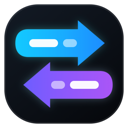
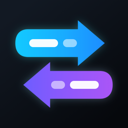
Add demo and polish project presentation

Changed region(s): [[0.0, 0.0, 1.0, 1.0]]

diff --git a/tests/background.test.js b/tests/background.test.js
@@ -119,7 +119,31 @@ test("background bootstraps an anonymous Bing session without a user key", async
   const form = new URLSearchParams(background.fetchCalls[1].options.body);
   assert.equal(form.get("key"), "1234567890");
   assert.equal(form.get("token"), "anonymous-token");
+  assert.equal(form.get("fromLang"), "auto-detect");
   assert.equal(form.get("to"), "ru");
+});
+
+test("background auto-detects languages other than English", async () => {
+  const background = createBackground({ enabled: true }, (url, options = {}) => {
+    if (String(url).endsWith("/translator")) return response(200, SESSION_HTML);
+
+    const form = new URLSearchParams(options.body);
+    assert.equal(form.get("fromLang"), "auto-detect");
+    assert.equal(form.get("text"), "Hola");
+    return response(200, JSON.stringify([{
+      detectedLanguage: { language: "es" },
+      translations: [{ text: "Привет", to: "ru" }],
+    }]));
+  });
+
+  const result = await background.send({
+    type: "TRANSLATE_BATCH",
+    items: [{ id: "es-1", html: "<div>Hola</div>", plainText: "Hola" }],
+  });
+
+  assert.equal(result.ok, true);
+  assert.equal(result.results[0].detectedLanguage, "es");
+  assert.match(result.results[0].translatedHtml, /Привет/);
 });
 
 test("background preserves protected tokens, line breaks, cache and item ids", async () => {

diff --git a/popup.html b/popup.html
@@ -10,7 +10,7 @@
     <main>
       <header class="header">
         <div class="brand">
-          <img src="icons/icon48.png?v=027" width="40" height="40" alt="">
+          <img src="icons/icon48.png?v=028" width="40" height="40" alt="">
           <div>
             <h1>X Translator</h1>
             <p>Перевод постов на русский</p>

diff --git a/README.md b/README.md
@@ -4,6 +4,10 @@
 
 Перевод заменяет исходный текст прямо в посте. Оригинал можно вернуть одной кнопкой. Ссылки, упоминания, хештеги, эмодзи и переносы строк сохраняются.
 
+Исходный язык определяется автоматически — перевод работает не только с английским.
+
+![Демонстрация X Translator](assets/demo.gif)
+
 ## Установка
 
 1. Скачайте ZIP из [последнего релиза](https://github.com/punshofficial/X-Translator/releases/latest) и распакуйте его.